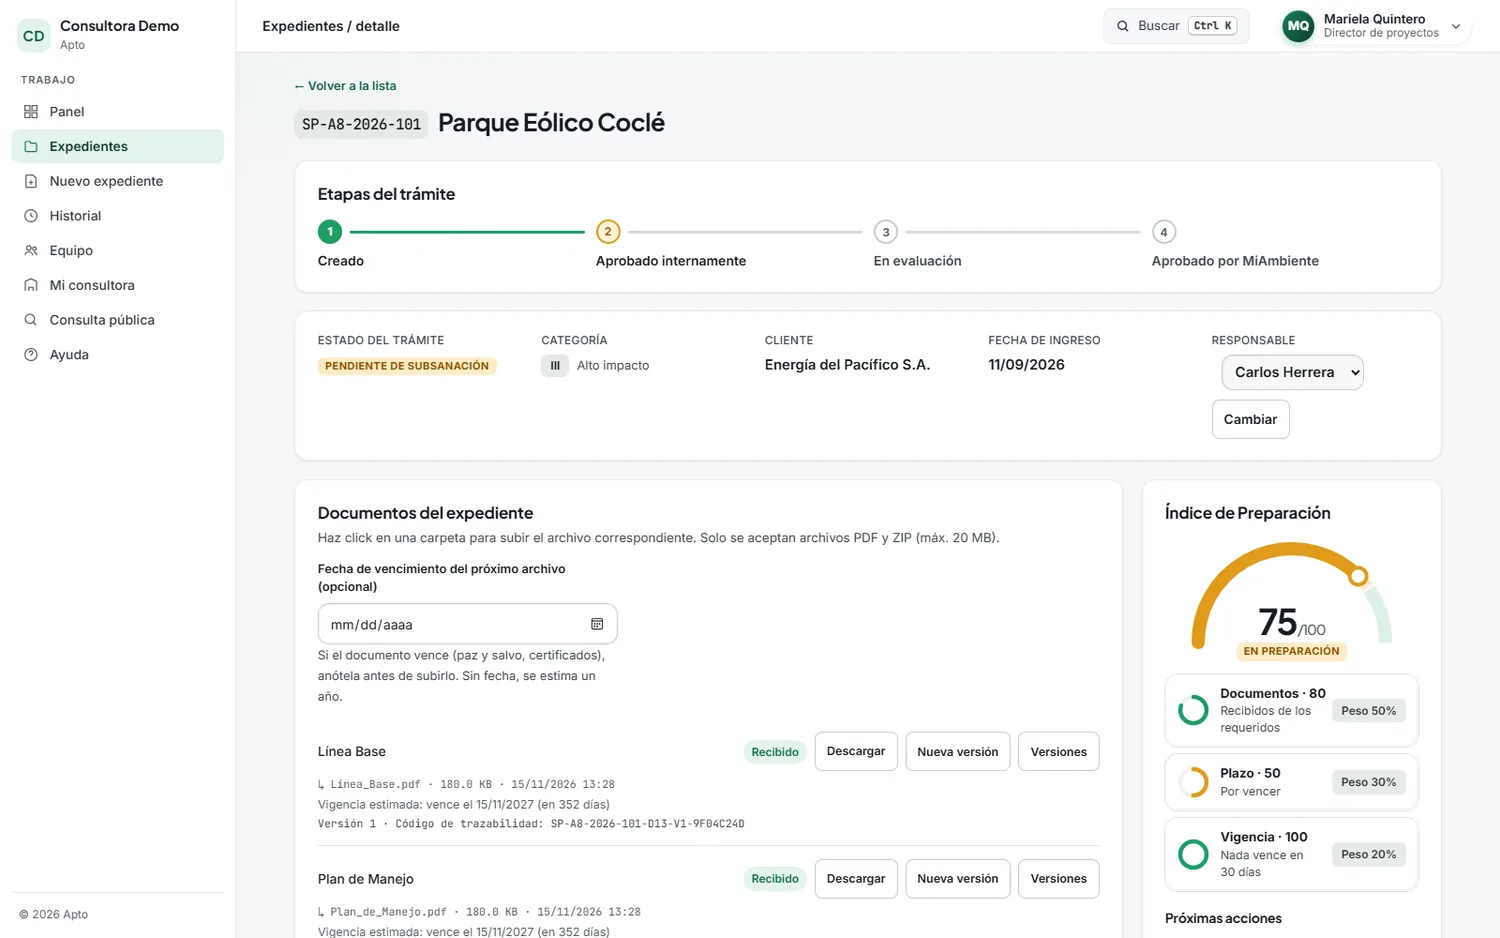
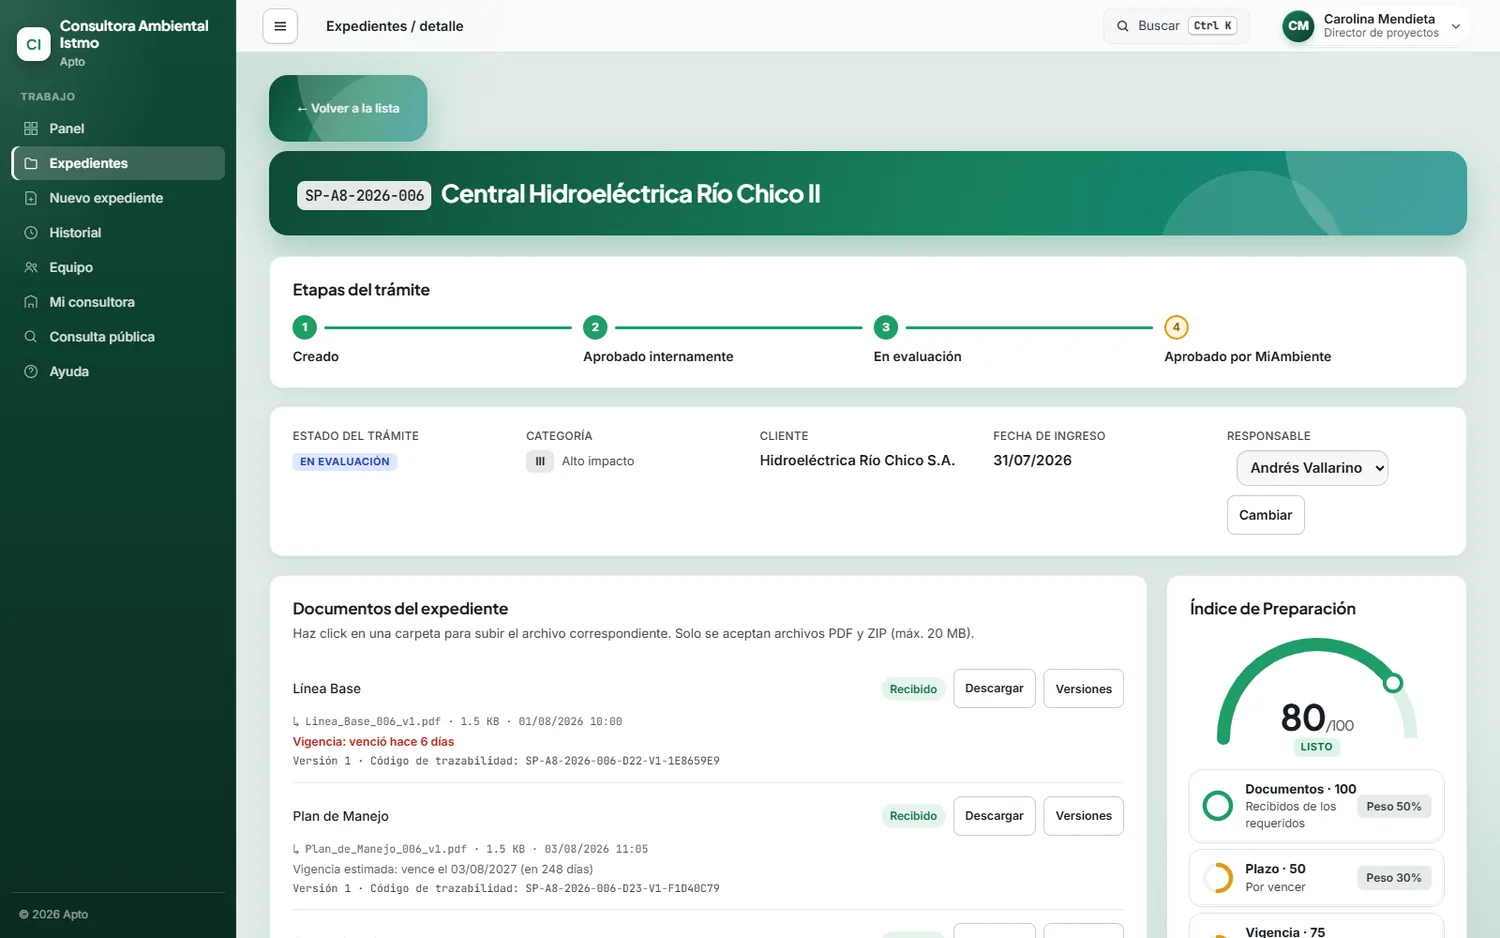
Landing: aire debajo de cada seccion y capturas del producto con el diseno nuevo
- .seccion terminaba a 8 px de la siguiente: las tarjetas quedaban pegadas a la banda o seccion que sigue.
  Ahora hay 72 px (52 en celular) y las secciones consecutivas conservan una separacion equilibrada.
- Se regeneran las siete capturas del producto (panel, prioridades, detalle, indice, plazos, lista y celular)
  con el diseno de dos tonos y con la consultora de demostracion de produccion (Consultora Ambiental Istmo).

diff --git a/static/css/estilos.css b/static/css/estilos.css
@@ -2403,3 +2403,10 @@ html, body {
   .widget { padding: 22px 26px 20px; }
   .ipe-promedio b { font-size: 52px; }
 }
+
+/* ---------- Landing: aire debajo de cada seccion ---------- */
+/* .seccion terminaba a 8 px de la siguiente: las tarjetas quedaban pegadas al borde de la banda o seccion que sigue. */
+.seccion { padding-bottom: 72px; }
+.seccion + .seccion { padding-top: 8px; }
+.seccion.carrusel-seccion { padding-bottom: 80px; }
+@media (max-width: 820px) { .seccion { padding-bottom: 52px; } }
